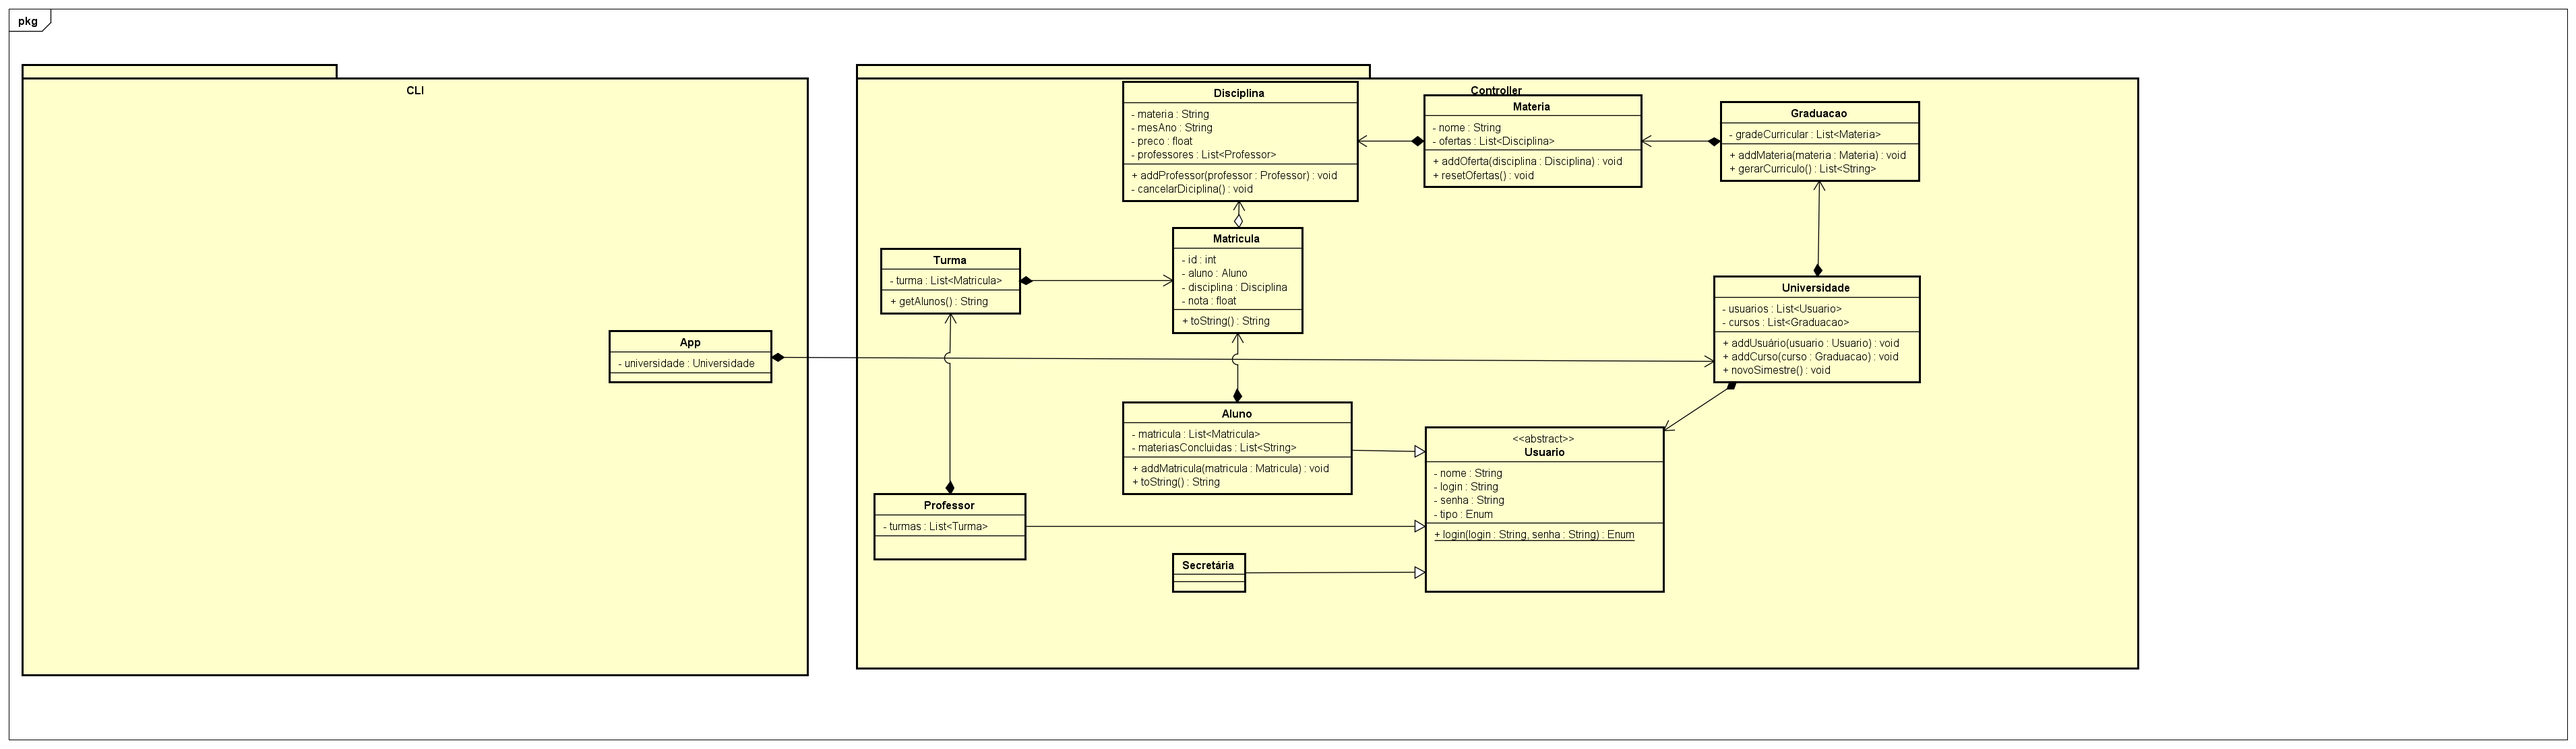
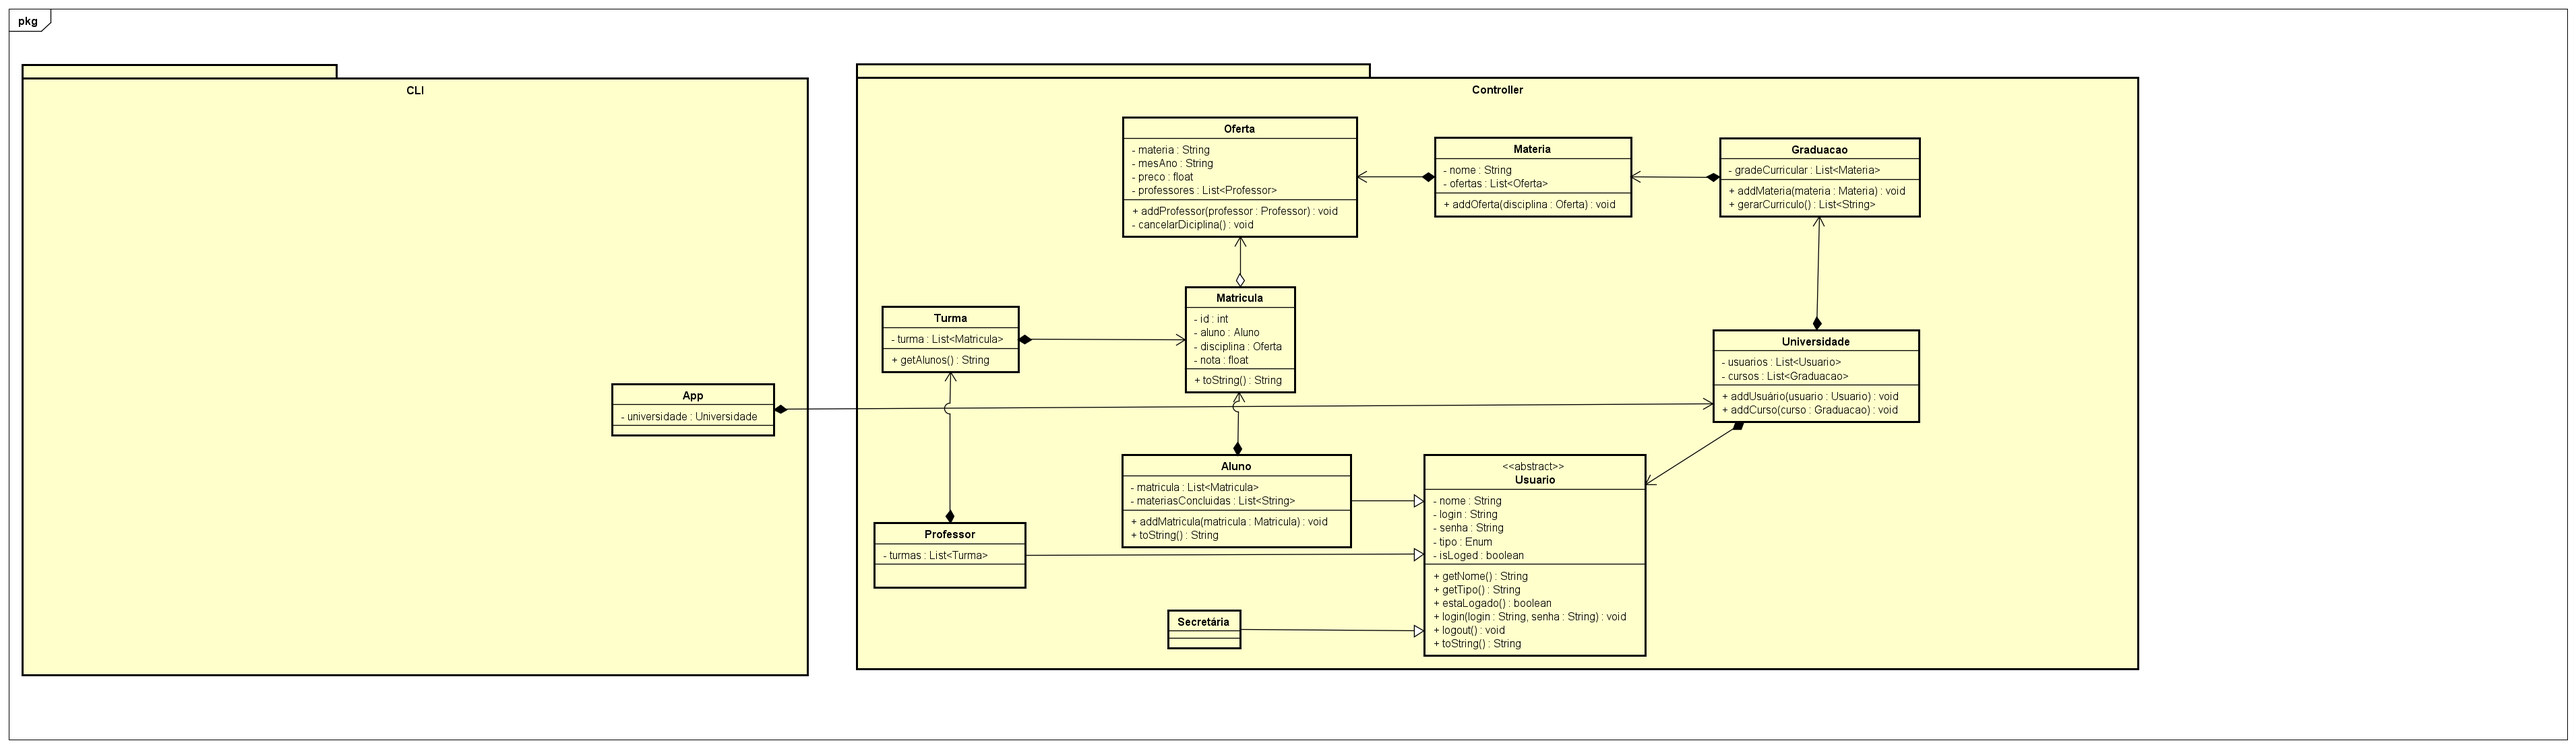
Update geral das classes

diff --git a/Implementacao/src/Controller/Usuario.java b/Implementacao/src/Controller/Usuario.java
@@ -6,17 +6,55 @@ public abstract class Usuario {
     private String nome;
     private String login;
     private String senha;
-    private Enum tipo = Enum.Usuario;
+    private boolean estaLogado;
+    private Enum tipo;
 
-    public Enum login(String login, String senha) throws InvalidLoginOrPasswordException{
+// Construtor
+
+    public Usuario (String nome, String login, String senha, Enum tipo){
+        this.nome = nome;
+        this.login = login;
+        this.senha = senha;
+        this.tipo = tipo;
+    }
+
+// Get
+
+    public String getNome() {
+        return nome;
+    }
+    
+    public String getTipo() {
+        return tipo.getTipo();
+    }
+
+    public boolean estaLogado(){
+        return this.estaLogado;
+    }
+
+// Metodos
+
+    public void login(String login, String senha) throws InvalidLoginOrPasswordException{
         if(this.login.equals(login) && this.senha.equals(senha)){
-            return this.tipo;
+            this.estaLogado=true;
+            System.out.println("System Responder >> Login Efetuado");
         }
         else throw new InvalidLoginOrPasswordException();
     }
-    
+    public void logout(){
+        this.estaLogado = false;
+        System.out.println("System Responder >> Logout Efetuado");
+    }
+
+// Overrides
+
+    @Override
     public String toString(){
-        String usuario = tipo.name()+" : "+this.nome+"\n";
+        String usuario = "---------------------------------------------\n";
+        usuario += tipo.name()+" : "+this.nome+"\n";
+        usuario += "Ele está Logado ? "+this.estaLogado()+"\n";
+        usuario += "É um usuario do tipo "+this.tipo.name()+"\n";
+        usuario += "---------------------------------------------";
         return usuario;
     }
 }

diff --git a/Implementacao/src/Controller/Materia.java b/Implementacao/src/Controller/Materia.java
@@ -4,14 +4,14 @@ import java.util.List;
 
 public class Materia {
     private String nome;
-    private List<Disciplina> ofertas;
+    private List<Oferta> ofertas;
 
-    public Materia(String nome, List<Disciplina> ofertas) {
+    public Materia(String nome, List<Oferta> ofertas) {
         this.nome = nome;
         this.ofertas = ofertas;
     }
 
-    public void addOferta(Disciplina disciplina){
-        this.ofertas.add(disciplina);
+    public void addOferta(Oferta oferta){
+        this.ofertas.add(oferta);
     }
 }

diff --git a/Implementacao/src/Controller/Secretaria.java b/Implementacao/src/Controller/Secretaria.java
@@ -1,0 +1,10 @@
+package Controller;
+
+public class Secretaria extends Usuario{
+
+    public Secretaria(String nome, String login, String senha) {
+        super(nome, login, senha, Enum.Secretaria);
+        //TODO Auto-generated constructor stub
+    }
+    
+}

diff --git a/Implementacao/src/Controller/Aluno.java b/Implementacao/src/Controller/Aluno.java
@@ -1,0 +1,8 @@
+package Controller;
+
+public class Aluno extends Usuario{
+
+    public Aluno(String nome, String login, String senha) {
+        super(nome, login, senha, Enum.Aluno);
+    }
+}

diff --git a/Implementacao/src/Controller/Universidade.java b/Implementacao/src/Controller/Universidade.java
@@ -13,6 +13,4 @@ public class Universidade {
     public void addCurso(Graduacao curso){
         this.cursos.add(curso);
     }
-
-    public void novoSimestre(){}
 }

diff --git a/Implementacao/src/Controller/Oferta.java b/Implementacao/src/Controller/Oferta.java
@@ -1,0 +1,5 @@
+package Controller;
+
+public class Oferta {
+
+}

diff --git a/README.md b/README.md
@@ -4,7 +4,7 @@
 
 - [Diagrama de Caso De Uso](#diagrama-de-caso-de-uso)
 
-- [Diagrama de Classes](#dagrama-de-classes)
+- [Diagrama de Classes](#dagrama-de-Classes)
 
 - [Histórias de Usuários](#hist%C3%B3rias-de-usu%C3%A1rios)
 
@@ -33,7 +33,7 @@ Arquitetura utilizada foi a arquitetura em camadas. A camada de CLI (Comand Line
   
 ## Dagrama de Classes
 
-![Diagrama_Classes](./Projeto/Diagrama%20de%20classe.png)
+![Diagrama_Classes](./Projeto/Diagrama%20de%20Classe.png)
 
 ---
 
